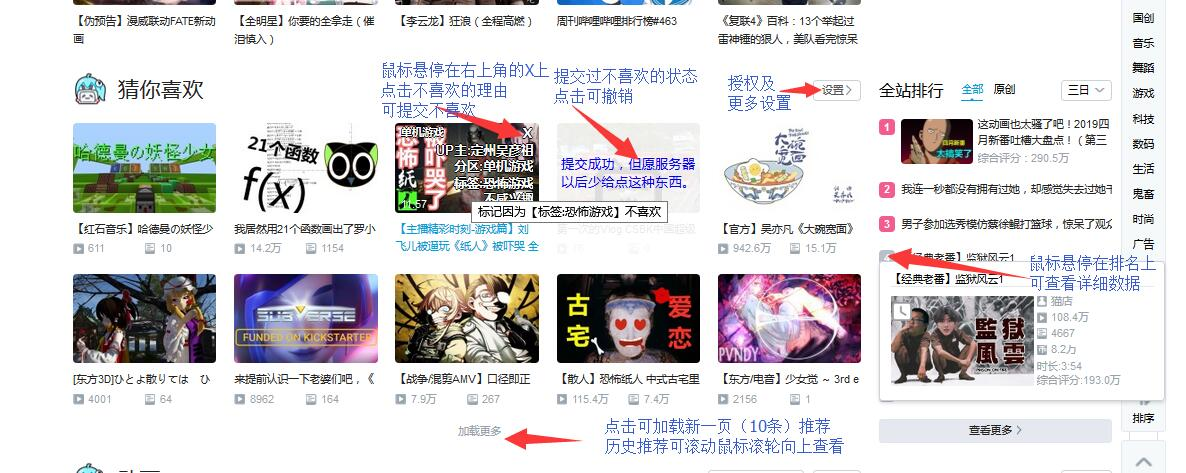
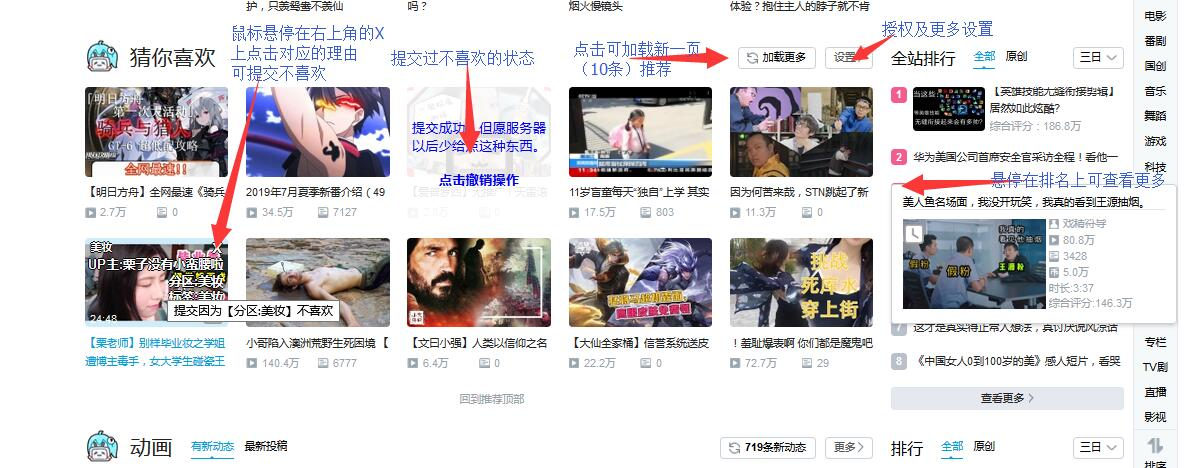
[Bhome]倒序显示，修复鉴权失效处理

diff --git a/bilibiliHome/bilibiliHome.user.js b/bilibiliHome/bilibiliHome.user.js
@@ -1,7 +1,7 @@
 // ==UserScript==
 // @name         bilibili网页端添加APP首页推荐
 // @namespace    indefined
-// @version      0.5.3
+// @version      0.5.4
 // @description  网页端首页添加APP首页推荐、全站排行、可选提交不喜欢的视频
 // @author       indefined
 // @supportURL   https://github.com/indefined/UserScripts/issues
@@ -90,6 +90,12 @@
                             className:'link-more',style:'cursor:pointer;user-select: none;',
                             innerHTML:'<span>设置  </span><i class="icon"></i>',
                             onclick:()=>setting.show()
+                        },
+                        {
+                            nodeType:'div',
+                            className:'read-push',style:'cursor:pointer;user-select: none;',
+                            innerHTML:'<i class="icon icon_read"></i><span class="info">加载更多</span>',
+                            onclick:getRecommend
                         }
                     ]
                 }
@@ -101,13 +107,18 @@
             innerHTML:'',style:'overflow-y: auto;',
             childs:[listBox = element._c({
                 nodeType:'div',className:scrollBox.className,
-                id:'recommend-list',style:'overflow-y: visible;width:calc(100% + 20px)'
+                id:'recommend-list',style:'overflow-y: visible;width:calc(100% + 20px)',
+                innerHTML:'<span style="display:none">empty</span>'
             })]
         });
         const moreButton = element._c({
             nodeType:'div',className:"clearfix",
-            innerHTML:'<div class="load-state" style="cursor: pointer;padding:4px">加载更多</div>',
-            onclick:getRecommend
+            innerHTML:'<div class="load-state" style="cursor: pointer;padding:4px">回到推荐顶部</div>',
+            onclick:()=>{
+                listBox.scrollTop = 0;
+                scrollBox.scrollTop = 0;
+                element.mainDiv.scrollIntoView();
+            }
         });
         scrollBox.insertAdjacentElement('afterend',moreButton);
         document.querySelector('#home_popularize').insertAdjacentElement('afterend',element.mainDiv);
@@ -117,7 +128,7 @@
         //获取推荐视频数据
         function getRecommend () {
             let loadingDiv;
-            listBox.appendChild(loadingDiv=element.getLoadingDiv('recommend'));
+            listBox.insertAdjacentElement('afterBegin',loadingDiv=element.getLoadingDiv('recommend'));
             GM_xmlhttpRequest({
                 method: 'GET',
                 url: 'https://app.bilibili.com/x/feed/index?build=1&mobi_app=android&idx='
@@ -146,7 +157,8 @@
 
         //显示推荐视频
         function updateRecommend (datas){
-            datas.forEach(data=>element._c({
+            const point = listBox.firstChild;
+            datas.forEach(data=>point.insertAdjacentElement('beforeBegin',element._c({
                 nodeType:'div',
                 className:'spread-module',
                 childs:[{
@@ -190,11 +202,10 @@
                         `<p class="num"><span class="play"><i class="icon"></i>${tools.formatNumber(data.play)}</span>`
                         +`<span class="danmu"><i class="icon"></i>${tools.formatNumber(data.danmaku)}</span>`
                     ]
-                }],
-                parent:listBox
-            }));
-            listBox.scrollTop = listBox.scrollHeight;
-            scrollBox.scrollTop = scrollBox.scrollHeight;
+                }]
+            })));
+            listBox.scrollTop = 0;
+            scrollBox.scrollTop = 0;
         }
 
         //提交不喜欢视频，视频数据提前绑定在页面元素上
@@ -241,7 +252,7 @@
                         if (par.code == 0){
                             handleCover();
                         }else if((par.code==-101 && par.message=='账号未登录') || par.code==-400){
-                            tools.storageAccessKey(undefined);
+                            setting.storageAccessKey(undefined);
                             tools.toast(`未获取授权或者授权失效，请点击设置重新获取授权`);
                         }
                         else{
@@ -482,8 +493,10 @@
             }
         },
         pushHistory(data){
-            this.historyData.push(...data);
-            while(this.historyData.length>this.historyLimit) this.historyData.shift();
+            this.historyData.unshift(...data);
+        },
+        saveHistory(){
+            while(this.historyData.length>this.historyLimit) this.historyData.pop();
             GM_setValue('historyRecommend',JSON.stringify(this.historyData));
         },
         setHistoryLimit(limit){
@@ -810,6 +823,7 @@
         try{
             setting.setStyle();
             InitRecommend();
+            window.addEventListener("beforeunload", ()=>setting.saveHistory());
             InitRanking();
         }catch(e){
             console.error(e);

diff --git a/bilibiliHome/README.md b/bilibiliHome/README.md
@@ -17,7 +17,7 @@ B站网页端添加APP首页推荐
 - 不喜欢/撤销不喜欢
 - 全站排行榜
 
-![图片预览](https://greasyfork.org/system/screenshots/screenshots/000/011/238/original/bilibiliHome.user.jpg)
+![图片预览](https://greasyfork.org/system/screenshots/screenshots/000/015/605/original/preview.jpg)
 
 -------------------------
 ## 授权说明
